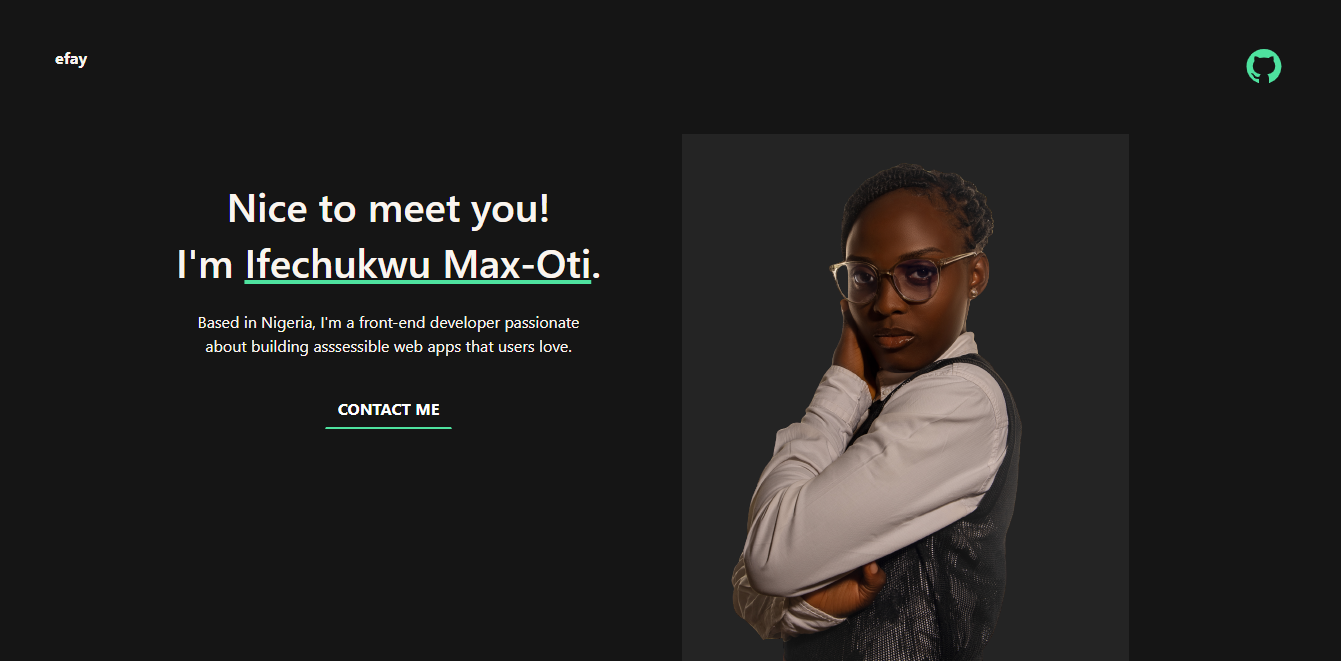
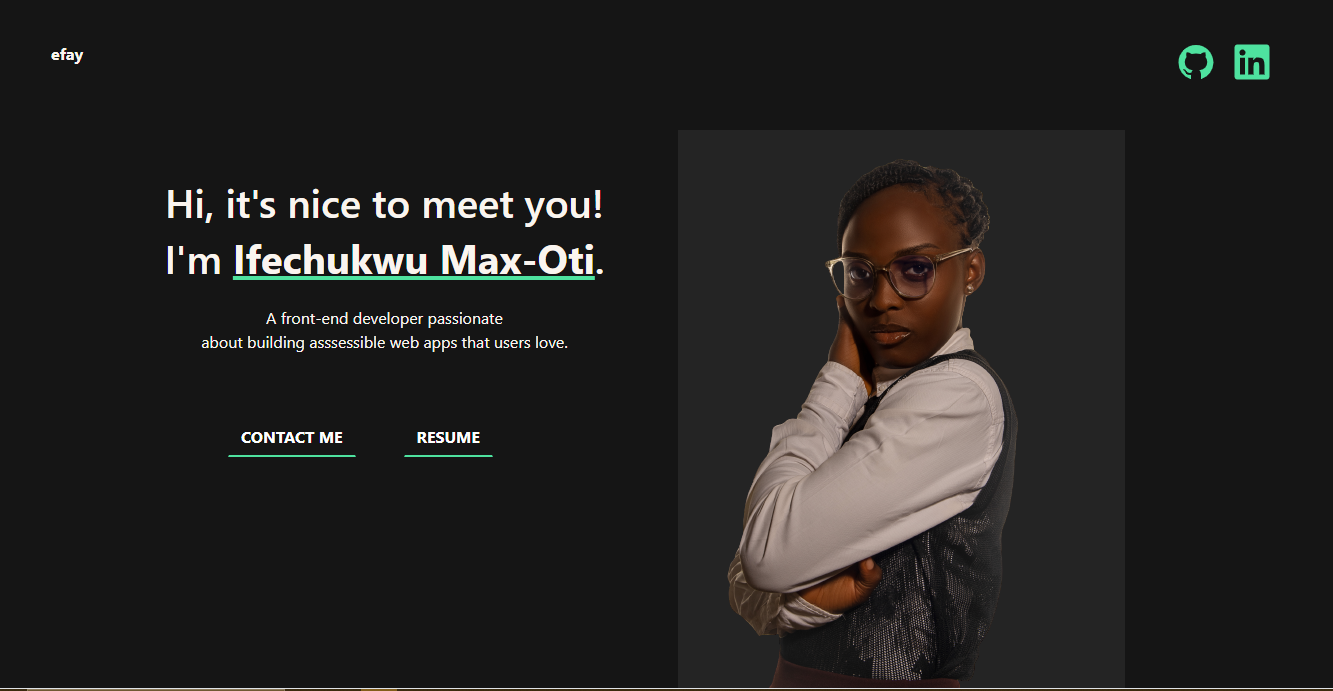
update portfolio

diff --git a/src/components/Skills.jsx b/src/components/Skills.jsx
@@ -1,6 +1,6 @@
 import React from 'react'
 import './Folio.css'
-import { TbBrandHtml5, TbBrandVite, TbBrandCss3 } from 'react-icons/tb'
+import { TbBrandHtml5, TbBrandVite, TbBrandCss3, TbBrandBootstrap, TbWriting, TbBrandNextjs } from 'react-icons/tb'
 import { IoLogoJavascript } from 'react-icons/io'
 import { FaReact } from 'react-icons/fa'
 import { AiFillGithub } from 'react-icons/ai'
@@ -45,7 +45,7 @@ const Skills = () =>{
                     <div className='card-body'>
                         <h2 className='card-title'><FaReact color='#61dbfb' fontSize={80}/></h2>
                         <h6 className='card-subtitle'>React</h6>
-                        <p className='card-text'> 2+ years</p>
+                        <p className='card-text'> 1 year</p>
                     </div>
                 </div>
             </div>
@@ -66,6 +66,36 @@ const Skills = () =>{
                         <h2 className='card-title'><AiFillGithub color='#f7f7f7' fontSize={80}/></h2>
                         <h6 className='card-subtitle'>Git</h6>
                         <p className='card-text'> 3+ years</p>
+                    </div>
+                </div>
+            </div>
+
+            <div className='col-12 col-xl-4 col-lg-4 col-md-4 col-sm-6 mb-3'>
+                <div className='card'>
+                    <div className='card-body'>
+                        <h2 className='card-title'><TbBrandBootstrap color='#8112FA' fontSize={80}/></h2>
+                        <h6 className='card-subtitle'>Bootstrap</h6>
+                        <p className='card-text'> 3+ years</p>
+                    </div>
+                </div>
+            </div>
+
+            <div className='col-12 col-xl-4 col-lg-4 col-md-4 col-sm-6 mb-3'>
+                <div className='card'>
+                    <div className='card-body'>
+                        <h2 className='card-title'><TbWriting color='#f4f4f4' fontSize={80}/></h2>
+                        <h6 className='card-subtitle'>Technical Writing</h6>
+                        <p className='card-text'> 3+ years</p>
+                    </div>
+                </div>
+            </div>
+
+            <div className='col-12 col-xl-4 col-lg-4 col-md-4 col-sm-6 mb-3'>
+                <div className='card'>
+                    <div className='card-body'>
+                        <h2 className='card-title'><TbBrandNextjs color='#000000' fontSize={80}/></h2>
+                        <h6 className='card-subtitle'>Next JS</h6>
+                        <p className='card-text'>1 year</p>
                     </div>
                 </div>
             </div>

diff --git a/src/components/Folio.jsx b/src/components/Folio.jsx
@@ -19,10 +19,10 @@ const Folio = () => {
 
             <div className='row justify-content-center border-bottom'>
                 <div className='header-text col-12 col-xl-5 col-lg-5 col-md-6 col-sm-7 pt-xl-5 pt-lg-5 pt-md-5 text-center'>
-                    <h1>Nice to meet you!</h1>
-                    <h1>I'm <span className='text-decoration-underline underline'>Ifechukwu Max-Oti</span>.</h1>
+                    <h1>Hi, it's nice to meet you!</h1>
+                    <h1>I'm <span className='text-decoration-underline underline fw-bold'>Ifechukwu Max-Oti</span>.</h1>
 
-                    <p className='fs-6 mt-xl-4 mt-lg-4 mt-md-4'>Based in Nigeria, I'm a front-end developer passionate <br></br> about building asssessible web apps that users love.</p>
+                    <p className='fs-6 mt-xl-4 mt-lg-4 mt-md-4'>A front-end developer passionate <br></br> about building asssessible web apps that users love.</p>
 
                     <a href='/#contact'>
                         <button className='btn btn-outline contact-btn my-3 my-lg-5' onClick={handleCLick()}>Contact Me</button>

diff --git a/src/components/Header.jsx b/src/components/Header.jsx
@@ -6,11 +6,11 @@ import { FaLinkedin } from 'react-icons/fa'
 const Header = () => {
     return (
         <div className='row header justify-content-between p-5'>
-            <div className='col-8'>
+            <div className='col-6'>
                 <p className='fw-bold'>efay</p>
             </div>
 
-            <div className='col-2 text-end'>
+            <div className='col-6 text-end'>
                 <a className='github-link' href='https://github.com/ifechiglory' target='_blank'>
                     <AiOutlineGithub fontSize={40}/>
                 </a>  

diff --git a/src/components/Folio.css b/src/components/Folio.css
@@ -7,6 +7,10 @@
     margin: 0 0.5rem;
 }
 
+.github-link:hover, .linkedin-link:hover{
+    color: #f4f4f4 !important;
+}
+
 span.underline{
     text-decoration-color: #4ee29f !important;
 }
